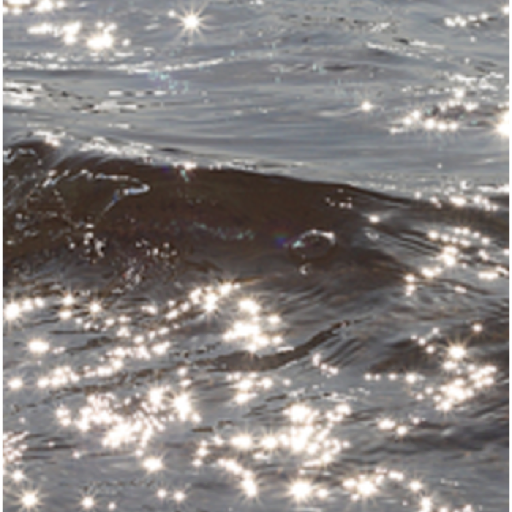
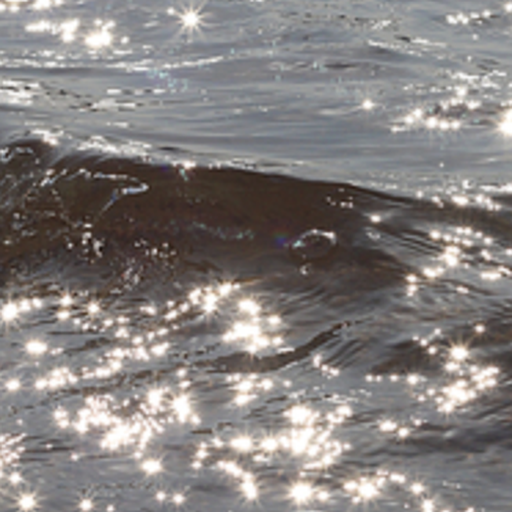
아이콘 full-bleed 정사각(여백 제거) + 헤딩 폰트 박다현체로 통일(summer cut만 세리프)

diff --git a/index.html b/index.html
@@ -67,7 +67,7 @@
   @media (prefers-reduced-motion:reduce){.panel.active{animation:none}}
 
   .sec-head{display:flex; align-items:baseline; gap:11px; margin:28px 0 6px}
-  .sec-head h2{font-family:var(--serif); font-style:italic; font-weight:600; font-size:29px; margin:0; color:var(--ink); letter-spacing:.01em}
+  .sec-head h2{font-family:var(--hand); font-weight:normal; font-size:31px; margin:0; color:var(--ink); letter-spacing:.005em; line-height:1.2}
   .sec-head .n{font-family:var(--serif2); font-size:10px; font-weight:600; color:var(--peach); letter-spacing:.18em; text-transform:uppercase}
   .sub{font-size:15px; color:var(--blue); margin:0 0 18px; line-height:1.65}
   .sub b{color:var(--ink)}
@@ -75,7 +75,7 @@
   /* chart */
   .chart-card{background:var(--card); border:1px solid var(--line); border-radius:16px; padding:16px 18px 10px; box-shadow:var(--shadow); margin-top:6px}
   .chart-head{display:flex; justify-content:space-between; align-items:center; font-size:12.5px; color:var(--blue)}
-  .chart-head .t{font-family:var(--serif); font-style:italic; font-weight:600; font-size:16px; color:var(--ink)}
+  .chart-head .t{font-family:var(--hand); font-weight:normal; font-size:17px; color:var(--ink)}
   svg{display:block; width:100%; height:auto}
 
   /* week cards */
@@ -103,7 +103,7 @@
   .dayblock.train{border-top:3px solid var(--peach)}
   .dayblock.cardio{border-top:3px solid var(--blue)}
   .day-h{padding:15px 17px 13px; border-bottom:1px solid var(--line)}
-  .day-h .tit{font-family:var(--serif); font-style:italic; font-weight:600; font-size:20px; color:var(--ink); display:flex; justify-content:space-between; align-items:center}
+  .day-h .tit{font-family:var(--hand); font-weight:normal; font-size:22px; color:var(--ink); display:flex; justify-content:space-between; align-items:center}
   .day-h .tit .prog{font-family:var(--serif2); font-size:12px; font-weight:600; color:var(--blue)}
   .day-h .meta{font-size:13px; color:var(--blue); margin-top:2px}
   ul.ex{list-style:none; margin:0; padding:5px 0}
@@ -126,7 +126,7 @@
   .meal{background:var(--card); border:1px solid var(--line); border-radius:18px; padding:17px 18px 19px; box-shadow:var(--shadow); margin-bottom:15px}
   .meal.train{border-top:3px solid var(--peach)}
   .meal.rest{border-top:3px solid var(--blue)}
-  .meal h3{margin:0; font-family:var(--serif); font-style:italic; font-weight:600; font-size:20px; color:var(--ink); display:flex; justify-content:space-between; align-items:baseline}
+  .meal h3{margin:0; font-family:var(--hand); font-weight:normal; font-size:22px; color:var(--ink); display:flex; justify-content:space-between; align-items:baseline}
   .meal h3 .cal{font-family:var(--serif2); font-size:13px; font-weight:500; color:var(--blue)}
   .macro{display:flex; gap:7px; margin:11px 0 15px; flex-wrap:wrap}
   .macro span{font-family:var(--serif2); font-size:11.5px; font-weight:500; padding:4px 10px; border-radius:8px; background:var(--blue-soft); color:var(--ink)}
@@ -141,7 +141,7 @@
   /* boxes */
   .box{border-radius:16px; padding:17px 19px; border:1px solid var(--line); background:var(--card); box-shadow:var(--shadow); margin-bottom:13px}
   .box.keep{border-left:3px solid var(--good)} .box.avoid{border-left:3px solid var(--stop)} .box.tip{border-left:3px solid var(--peach)}
-  .box h3{margin:0 0 12px; font-family:var(--serif); font-style:italic; font-weight:600; font-size:19px; color:var(--ink)}
+  .box h3{margin:0 0 12px; font-family:var(--hand); font-weight:normal; font-size:21px; color:var(--ink)}
   .box ul{margin:0; padding:0; list-style:none; display:flex; flex-direction:column; gap:10px}
   .box li{font-size:14px; color:var(--blue); padding-left:22px; position:relative; line-height:1.5}
   .keep li::before{content:"✦"; position:absolute; left:0; color:var(--good)}
@@ -150,7 +150,7 @@
   .box li b{color:var(--ink); font-weight:normal; border-bottom:1.5px solid var(--peach-soft)}
 
   .principles{background:var(--ink); color:var(--cream); border-radius:20px; padding:22px 22px 24px; margin-top:4px}
-  .principles h2{font-family:var(--serif); font-style:italic; font-weight:600; color:#fff; margin:0 0 16px; font-size:23px}
+  .principles h2{font-family:var(--hand); font-weight:normal; color:#fff; margin:0 0 16px; font-size:25px; line-height:1.25}
   .plist{display:flex; flex-direction:column; gap:15px}
   .p{border-top:1px solid rgba(247,242,228,.25); padding-top:11px}
   .p .pt{color:var(--peach-soft); font-size:16px; margin-bottom:2px}